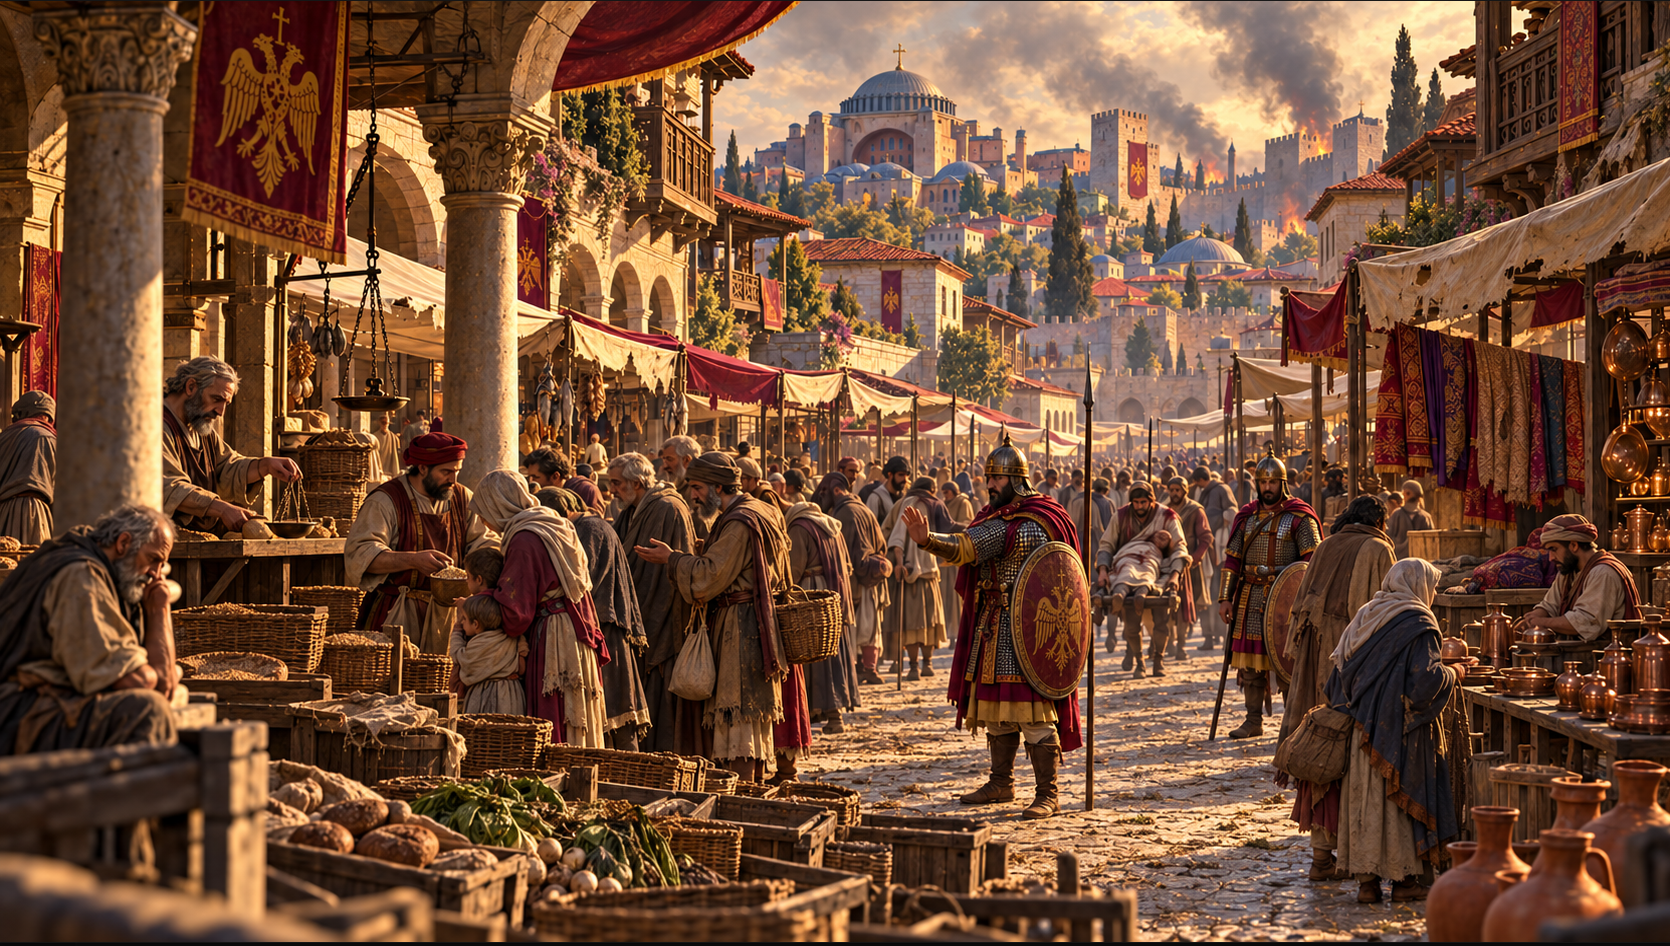
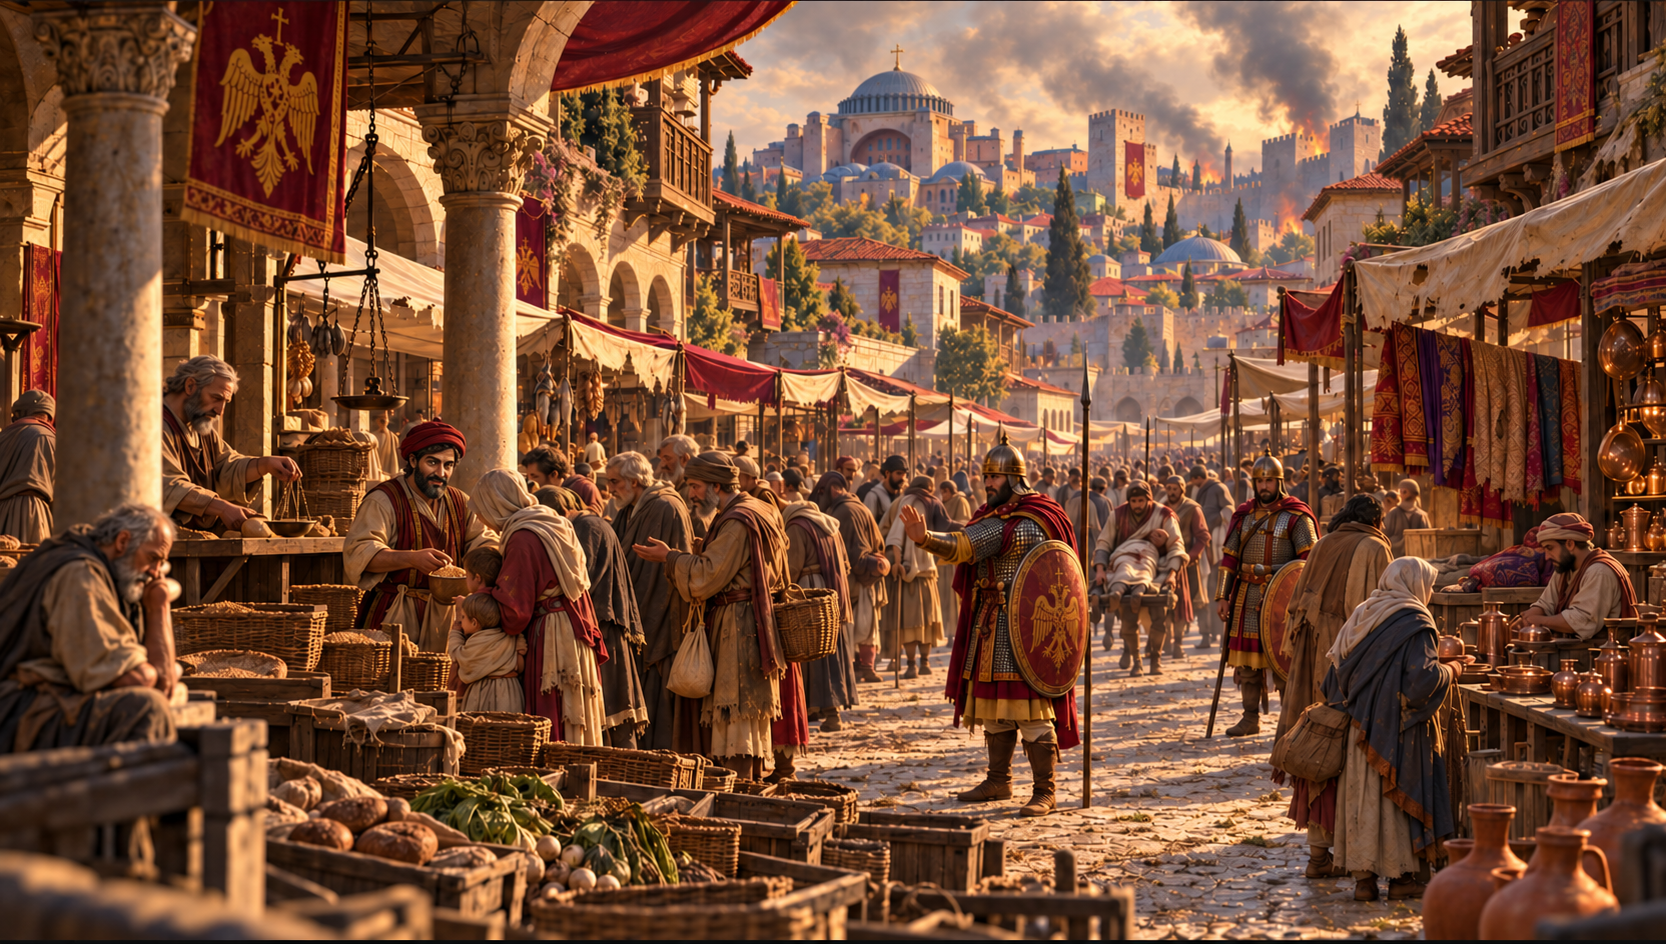
Add smiling market merchant with thirty hover remarks; publish 36.18

diff --git a/Assets/Scripts/MerchantCapture.cs b/Assets/Scripts/MerchantCapture.cs
@@ -1,0 +1,69 @@
+#if UNITY_EDITOR || DEVELOPMENT_BUILD
+using System;
+using System.Collections;
+using System.Collections.Generic;
+using System.IO;
+using System.Linq;
+using System.Reflection;
+using TMPro;
+using UnityEngine;
+using UnityEngine.UI;
+public sealed class MerchantCapture : MonoBehaviour
+{
+    string output; CouncilUI council; readonly List<string> results=new List<string>();
+    [RuntimeInitializeOnLoadMethod(RuntimeInitializeLoadType.BeforeSceneLoad)]
+    static void Begin(){if(!Environment.GetCommandLineArgs().Contains("-merchant-capture"))return;
+        string folder=Path.GetFullPath(Path.Combine(Application.dataPath,"../Captures/Merchant"));Directory.CreateDirectory(folder);SaveGames.TestRoot=Path.Combine(folder,"Saves");Directory.CreateDirectory(SaveGames.TestRoot);VariableSingleton.TestSavePath=Path.Combine(SaveGames.TestRoot,"checkpoint.besieged.json");
+        var go=new GameObject("Merchant verification");DontDestroyOnLoad(go);go.AddComponent<MerchantCapture>().output=folder;}
+    void Check(bool ok,string text){if(!ok)throw new InvalidOperationException(text);results.Add("PASS "+text);}
+    string State()=>JsonUtility.ToJson(VariableSingleton.Instance.CaptureState());
+    GameObject Root()=>GameObject.Find("Council screen");
+    Button Button(string name)=>Root().GetComponentsInChildren<Button>().Single(b=>b.name==name);
+    IEnumerator Start(){File.WriteAllText(Path.Combine(output,"checks.txt"),"RUNNING");var stack=new Stack<IEnumerator>();stack.Push(Run());
+        while(stack.Count>0){object next=null;bool moved=false;Exception failure=null;try{moved=stack.Peek().MoveNext();if(moved)next=stack.Peek().Current;}catch(Exception e){failure=e;}
+            if(failure!=null){File.WriteAllLines(Path.Combine(output,"details.txt"),results);File.WriteAllText(Path.Combine(output,"checks.txt"),"FAILED\n"+failure);Debug.LogException(failure);Application.Quit(1);yield break;}
+            if(!moved){stack.Pop();continue;}if(next is IEnumerator nested)stack.Push(nested);else yield return next;}
+        var report="MERCHANT_CHECKS "+results.Count+" passed; both market paintings, 30 remarks, three resolutions, raycasts and campaign state isolation.";File.WriteAllLines(Path.Combine(output,"details.txt"),results);File.WriteAllText(Path.Combine(output,"checks.txt"),report);Debug.Log(report);Application.Quit(0);}
+    IEnumerator Run(){AudioListener.volume=0;Application.runInBackground=true;yield return null;SaveMenu.StartCampaign(false);
+        float deadline=Time.realtimeSinceStartup+20;while((!VariableSingleton.IsInitialized||FindObjectOfType<ManagerUI>()==null)&&Time.realtimeSinceStartup<deadline)yield return null;
+        yield return new WaitForSecondsRealtime(.5f);CampaignHUD.Instance.DismissReport();council=CouncilUI.For(FindObjectOfType<ManagerUI>());
+        Check(MarketMerchant.RemarkCount==30,"thirty authored remarks loaded");var baseline=VariableSingleton.Instance.CaptureState();
+        foreach(var size in new[]{new Vector2Int(1600,900),new Vector2Int(1280,720),new Vector2Int(1280,960)}){
+            Screen.SetResolution(size.x,size.y,false);yield return new WaitForSecondsRealtime(.4f);
+            foreach(bool war in new[]{false,true}){
+                var fixture=JsonUtility.FromJson<VariableSingleton.CampaignSave>(JsonUtility.ToJson(baseline));fixture.turn=war?VariableSingleton.EffectiveSiegeTurn:baseline.turn;VariableSingleton.Instance.RestoreValidated(fixture);
+                council.Market();yield return new WaitForSecondsRealtime(.3f);Canvas.ForceUpdateCanvases();
+                var merchant=Root().GetComponentInChildren<MarketMerchant>();Check(merchant!=null,"merchant hover attached");
+                var spot=merchant.GetComponent<LocationHotspot>();var image=Root().GetComponentInChildren<RawImage>();
+                Check(image.texture.name==(war?"market-war":"market-peace"),"phase-specific edited art");
+                // Resolve a point on the face through the artwork's actual UV crop.
+                var uv=image.uvRect;var rect=image.rectTransform.rect;var normalized=new Vector2((.26f-uv.x)/uv.width,(.50f-uv.y)/uv.height);
+                var world=image.rectTransform.TransformPoint(new Vector3(rect.xMin+rect.width*normalized.x,rect.yMin+rect.height*normalized.y,0));
+                var screenPoint=RectTransformUtility.WorldToScreenPoint(null,world);Check(spot.IsRaycastLocationValid(screenPoint,null),"hotspot follows the displayed face at "+size);
+                var pointer=new UnityEngine.EventSystems.PointerEventData(UnityEngine.EventSystems.EventSystem.current){position=screenPoint};
+                var hits=new List<UnityEngine.EventSystems.RaycastResult>();UnityEngine.EventSystems.EventSystem.current.RaycastAll(pointer,hits);
+                Check(hits.Count>0&&hits[0].gameObject==spot.gameObject,"merchant receives pointer above the painting");
+                string before=State(),rng=JsonUtility.ToJson(UnityEngine.Random.state);var lines=new HashSet<string>();
+                for(int i=0;i<30;i++){
+                    UnityEngine.EventSystems.ExecuteEvents.Execute(merchant.gameObject,pointer,UnityEngine.EventSystems.ExecuteEvents.pointerEnterHandler);
+                    Check(merchant.Speaking&&lines.Add(merchant.CurrentRemark),"each hover yields a distinct remark within the shuffled deck");
+                    Canvas.ForceUpdateCanvases();foreach(var label in GameObject.Find("Merchant speech").GetComponentsInChildren<TMP_Text>()){label.ForceMeshUpdate();Check(!label.isTextOverflowing,"remark fits: "+label.text);}
+                    if(i==0)yield return Capture("merchant-"+(war?"war":"peace")+"-"+size.x+"x"+size.y);
+                    foreach(var graphic in GameObject.Find("Merchant speech").GetComponentsInChildren<UnityEngine.UI.Graphic>())Check(!graphic.raycastTarget,"speech cannot steal mouse input");
+                    UnityEngine.EventSystems.ExecuteEvents.Execute(merchant.gameObject,pointer,UnityEngine.EventSystems.ExecuteEvents.pointerExitHandler);Check(!merchant.Speaking,"exit hides quote and highlight");
+                }
+                Check(State()==before&&JsonUtility.ToJson(UnityEngine.Random.state)==rng,"merchant chatter never changes campaign or random stream");
+                var buy=Button("Market buy iMaterials");var corners=new Vector3[4];((RectTransform)buy.transform).GetWorldCorners(corners);
+                pointer.position=RectTransformUtility.WorldToScreenPoint(null,(corners[0]+corners[2])*.5f);hits.Clear();UnityEngine.EventSystems.EventSystem.current.RaycastAll(pointer,hits);
+                Check(hits.Count>0&&hits[0].gameObject.GetComponentInParent<UnityEngine.UI.Button>()==buy,"purchasing remains unobstructed");
+            }
+        }
+        CampaignHUD.Instance.ShowReport("Lethality and unit roles",ManagerUI.MilitaryExplanation,()=>CampaignHUD.Instance.DismissReport());yield return null;yield return Capture("unit-guide-top");
+        var scroll=GameObject.Find("Outcome scroll").GetComponent<UnityEngine.UI.ScrollRect>();scroll.verticalNormalizedPosition=0;yield return null;yield return Capture("unit-guide-bottom");
+    }
+    IEnumerator Capture(string name){yield return new WaitForSecondsRealtime(.1f);Canvas.ForceUpdateCanvases();var go=new GameObject("Diplomacy capture camera",typeof(Camera));var camera=go.GetComponent<Camera>();camera.orthographic=true;camera.clearFlags=CameraClearFlags.SolidColor;camera.backgroundColor=ImperialTheme.Navy;camera.nearClipPlane=.1f;camera.farClipPlane=100;
+        var canvases=FindObjectsOfType<Canvas>().Where(c=>c.isRootCanvas).ToArray();var modes=canvases.Select(c=>c.renderMode).ToArray();var cameras=canvases.Select(c=>c.worldCamera).ToArray();var distances=canvases.Select(c=>c.planeDistance).ToArray();var target=RenderTexture.GetTemporary(Screen.width,Screen.height,24);var previous=RenderTexture.active;Texture2D shot=null;
+        try{camera.targetTexture=target;foreach(var canvas in canvases){canvas.renderMode=RenderMode.ScreenSpaceCamera;canvas.worldCamera=camera;canvas.planeDistance=10;}Canvas.ForceUpdateCanvases();camera.Render();RenderTexture.active=target;shot=new Texture2D(target.width,target.height,TextureFormat.RGB24,false);shot.ReadPixels(new Rect(0,0,target.width,target.height),0,0);shot.Apply();File.WriteAllBytes(Path.Combine(output,name+".png"),shot.EncodeToPNG());}
+        finally{RenderTexture.active=previous;for(int i=0;i<canvases.Length;i++){canvases[i].renderMode=modes[i];canvases[i].worldCamera=cameras[i];canvases[i].planeDistance=distances[i];}camera.targetTexture=null;RenderTexture.ReleaseTemporary(target);if(shot!=null)Destroy(shot);Destroy(go);Canvas.ForceUpdateCanvases();}}
+}
+#endif

diff --git a/Assets/Scripts/MarketMerchant.cs b/Assets/Scripts/MarketMerchant.cs
@@ -1,0 +1,44 @@
+using System;
+using System.Linq;
+using TMPro;
+using UnityEngine;
+using UnityEngine.EventSystems;
+using UnityEngine.UI;
+
+// Cosmetic market chatter never reads or advances the campaign random stream.
+public sealed class MarketMerchant : MonoBehaviour,IPointerEnterHandler,IPointerExitHandler
+{
+    [Serializable] public sealed class Lines {public string[] remarks;}
+    static string[] remarks;static int[] order;static int cursor;static int last=-1;
+    static readonly System.Random random=new System.Random();
+    LocationHotspot hotspot;RawImage painting;GameObject speech;TMP_Text words;
+    Vector2[] sourceShape;Rect previousUv;Vector2 previousSize;
+    public string CurrentRemark=>words==null?"":words.text;
+    public bool Speaking=>speech!=null&&speech.activeSelf;
+    public static int RemarkCount=>Load().Length;
+    static string[] Load(){if(remarks==null){var asset=Resources.Load<TextAsset>("Content/MarketMerchant");remarks=asset==null?new[]{"Are you buying, or shall I weigh your opinions?"}:JsonUtility.FromJson<Lines>(asset.text).remarks;}return remarks;}
+    static string Next(){var lines=Load();if(order==null||cursor>=order.Length){order=Enumerable.Range(0,lines.Length).ToArray();for(int i=order.Length-1;i>0;i--){int j=random.Next(i+1);int t=order[i];order[i]=order[j];order[j]=t;}if(order.Length>1&&order[0]==last){int t=order[0];order[0]=order[1];order[1]=t;}cursor=0;}last=order[cursor++];return lines[last];}
+    public static void Attach(GameObject screen)
+    {
+        var art=screen.transform.Find("Scene artwork");if(art==null)return;
+        var painting=art.GetComponent<RawImage>();if(painting==null)return;
+        bool war=VariableSingleton.HasSiegeStarted();
+        // Traced around the visible merchant; neighbouring customers are excluded.
+        Vector2[] shape=war?new[]{new Vector2(.237f,.548f),new Vector2(.250f,.558f),new Vector2(.270f,.553f),new Vector2(.280f,.536f),new Vector2(.277f,.505f),new Vector2(.286f,.484f),new Vector2(.278f,.465f),new Vector2(.277f,.435f),new Vector2(.285f,.411f),new Vector2(.274f,.394f),new Vector2(.264f,.397f),new Vector2(.249f,.337f),new Vector2(.214f,.338f),new Vector2(.217f,.388f),new Vector2(.205f,.414f),new Vector2(.208f,.458f),new Vector2(.220f,.491f),new Vector2(.240f,.501f),new Vector2(.236f,.527f)}:
+            new[]{new Vector2(.239f,.536f),new Vector2(.251f,.546f),new Vector2(.273f,.542f),new Vector2(.282f,.525f),new Vector2(.278f,.498f),new Vector2(.273f,.483f),new Vector2(.290f,.474f),new Vector2(.300f,.451f),new Vector2(.309f,.417f),new Vector2(.308f,.389f),new Vector2(.297f,.385f),new Vector2(.291f,.415f),new Vector2(.279f,.422f),new Vector2(.275f,.371f),new Vector2(.250f,.349f),new Vector2(.216f,.332f),new Vector2(.214f,.380f),new Vector2(.209f,.410f),new Vector2(.214f,.452f),new Vector2(.226f,.475f),new Vector2(.244f,.482f),new Vector2(.239f,.510f)};
+        var spot=LocationHotspot.Create(art,"Merchant",shape,null);
+        var behaviour=spot.gameObject.AddComponent<MarketMerchant>();behaviour.hotspot=spot;behaviour.painting=painting;behaviour.sourceShape=shape;
+        // A fixed caption stays clear of both the merchant and the purchase desk.
+        behaviour.speech=CampaignHUD.Panel(screen.transform,"Merchant speech",new Vector2(.025f,.735f),new Vector2(.49f,.965f));ImperialTheme.Panel(behaviour.speech,false);
+        var title=CampaignHUD.Label(behaviour.speech.transform,"THE GRAIN MERCHANT",new Vector2(.04f,.73f),new Vector2(.96f,.95f),22);title.color=ImperialTheme.Gold;
+        behaviour.words=CampaignHUD.Label(behaviour.speech.transform,"",new Vector2(.04f,.09f),new Vector2(.96f,.71f),25);
+        behaviour.words.enableAutoSizing=true;behaviour.words.fontSizeMin=20;behaviour.words.fontSizeMax=25;behaviour.words.alignment=TextAlignmentOptions.MidlineLeft;
+        foreach(var graphic in behaviour.speech.GetComponentsInChildren<Graphic>())graphic.raycastTarget=false;
+        behaviour.speech.SetActive(false);behaviour.Remap();
+    }
+    void LateUpdate(){if(painting!=null&&(painting.uvRect!=previousUv||painting.rectTransform.rect.size!=previousSize))Remap();}
+    void Remap(){previousUv=painting.uvRect;previousSize=painting.rectTransform.rect.size;hotspot.Shape=sourceShape.Select(p=>new Vector2((p.x-previousUv.x)/previousUv.width,(p.y-previousUv.y)/previousUv.height)).ToArray();hotspot.SetVerticesDirty();}
+    public void OnPointerEnter(PointerEventData e){if(Speaking)return;words.text=Next();speech.SetActive(true);hotspot.SetHighlighted(true);var caption=transform.Find("Hover label");if(caption!=null)caption.gameObject.SetActive(false);}
+    public void OnPointerExit(PointerEventData e){if(speech!=null)speech.SetActive(false);if(hotspot!=null)hotspot.SetHighlighted(false);}
+    void OnDisable(){OnPointerExit(null);}
+}

diff --git a/Assets/Scripts/UI/Editor/BuildMerchant.cs b/Assets/Scripts/UI/Editor/BuildMerchant.cs
@@ -1,0 +1,8 @@
+#if UNITY_EDITOR
+using System;using System.Linq;using UnityEditor;using UnityEditor.Build.Reporting;
+public static class BuildMerchant {
+ public static void Build(){PlayerSettings.bundleVersion="36.18";
+ var r=BuildPipeline.BuildPlayer(new BuildPlayerOptions{scenes=EditorBuildSettings.scenes.Where(s=>s.enabled).Select(s=>s.path).ToArray(),locationPathName="Builds/Version-36.18/Besieged.exe",target=BuildTarget.StandaloneWindows64,options=BuildOptions.Development});
+ if(r.summary.result!=BuildResult.Succeeded)throw new Exception("Merchant build failed");}
+}
+#endif

diff --git a/Assets/Scripts/CouncilMarketUI.cs b/Assets/Scripts/CouncilMarketUI.cs
@@ -74,6 +74,7 @@ public partial class CouncilUI
         notice.fontSize=19;notice.fontSizeMin=16;notice.fontSizeMax=19;notice.enableAutoSizing=true;notice.alignment=TextAlignmentOptions.Center;notice.text="";
         var back=CampaignHUD.MakeButton(panel.transform,"Return",new Vector2(.20f,.02f),new Vector2(.80f,.075f),()=>ControlSingleton.Instance.GoBack());
         back.gameObject.name="Market return";MarketButtonText(back,23);
+        MarketMerchant.Attach(screen);
     }
 
     static TMP_Text MarketText(Transform parent,string text,Vector2 min,Vector2 max,int size)

diff --git a/Assets/Scripts/CouncilUI.cs b/Assets/Scripts/CouncilUI.cs
@@ -30,7 +30,7 @@ public partial class CouncilUI : MonoBehaviour
 
 
 
-    public const string BuildLabel="Version 36.17 · Fleet, training and provincial war";
+    public const string BuildLabel="Version 36.18 · The market speaks";
 
 
 
